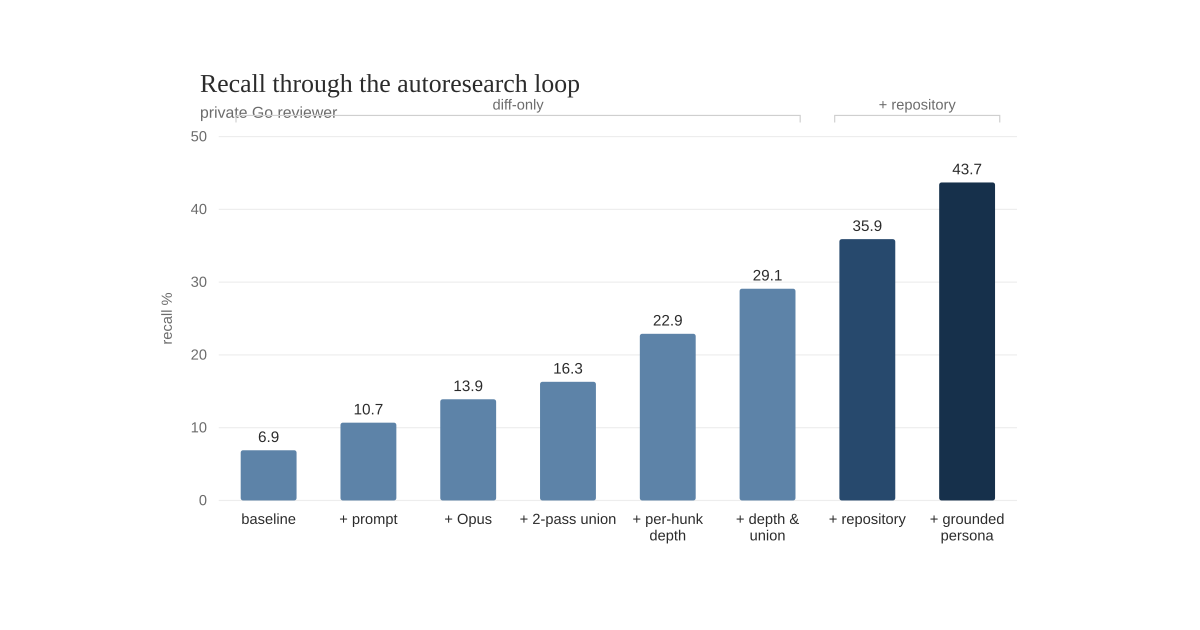
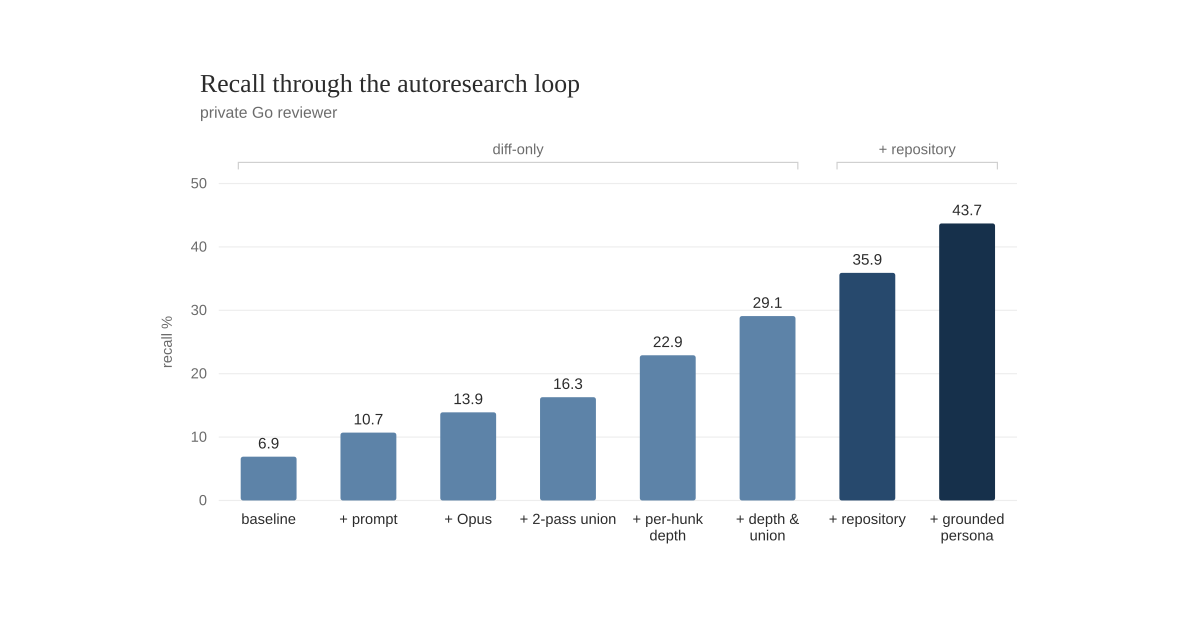
Fix evolution chart: give subtitle/brackets their own band
The subtitle, group brackets and top gridline were colliding in one strip,
so the gridline cut through the subtitle. Push the plot down and lift the
brackets into a clear band. Rebuilds the OG image too.

diff --git a/script/gen_reviewer_charts.py b/script/gen_reviewer_charts.py
@@ -105,7 +105,13 @@ def grouped(fn, title, categories, series, ymax, ticks, fmt="{:.0f}",
 def single(fn, title, bars, ymax, ticks, fmt="{:.0f}", subtitle=None, h=430,
            ylabel="recall %", brackets=None):
     # bars: list of (label, value, color)
-    left, right, top, bottom = 56, 24, 78, 72
+    if brackets:
+        top = 118 if subtitle else 104
+    elif subtitle:
+        top = 92
+    else:
+        top = 78
+    left, right, bottom = 56, 24, 72
     plotW = W - left - right
     plotH = h - top - bottom
     parts = []
@@ -143,13 +149,14 @@ def single(fn, title, bars, ymax, ticks, fmt="{:.0f}", subtitle=None, h=430,
                          f'text-anchor="middle" font-family="{LFONT}" font-size="12.5" '
                          f'fill="{INK}">{esc(ln)}</text>')
     if brackets:
+        hb = top - 18  # bracket line, in its own clear band above the plot
         for (i0, i1, txt) in brackets:
-            x0 = centers[i0] - bw / 2 - 4
-            x1 = centers[i1] + bw / 2 + 4
-            yb = top - 12
-            parts.append(f'<path d="M{x0:.1f} {yb} L{x0:.1f} {yb-6} L{x1:.1f} {yb-6} '
-                         f'L{x1:.1f} {yb}" fill="none" stroke="{AXIS}" stroke-width="1"/>')
-            parts.append(f'<text x="{(x0+x1)/2:.1f}" y="{yb-11:.0f}" text-anchor="middle" '
+            x0 = centers[i0] - bw / 2 - 2
+            x1 = centers[i1] + bw / 2 + 2
+            parts.append(f'<path d="M{x0:.1f} {hb+6:.1f} L{x0:.1f} {hb:.1f} '
+                         f'L{x1:.1f} {hb:.1f} L{x1:.1f} {hb+6:.1f}" fill="none" '
+                         f'stroke="{AXIS}" stroke-width="1"/>')
+            parts.append(f'<text x="{(x0+x1)/2:.1f}" y="{hb-7:.0f}" text-anchor="middle" '
                          f'font-family="{LFONT}" font-size="12.5" fill="{SUB}">{esc(txt)}</text>')
     parts.append('</svg>')
     write(fn, parts)